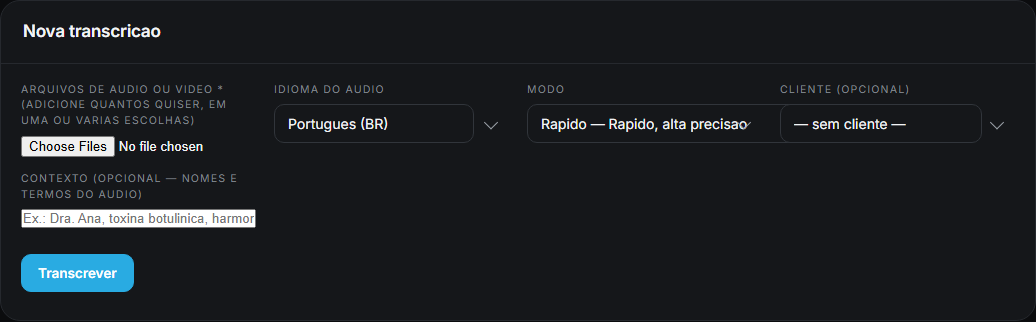
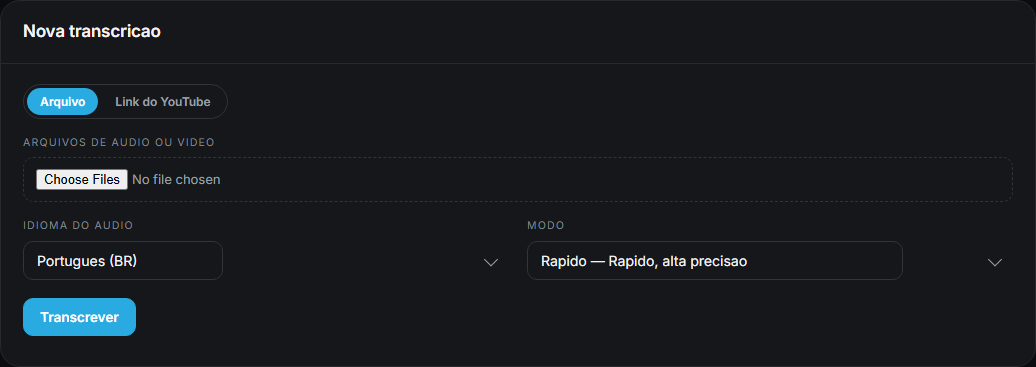
Transcritor: fonte por link do YouTube na UI
- Toggle Arquivo / Link do YouTube (.ct-periodo) no formulario; troca
  so a visibilidade, sem re-render (nao perde o que ja foi digitado)
- Textarea de links (um por linha) para enfileirar varios de uma vez
- Status "Baixando do YouTube" com barra de progresso no card
- Envio ramificado: arquivos (upload) ou links (POST /transcritor-youtube)
- Nova secao CSS #transcritor-root (tokens do tema); zero estilo inline
- Screenshots dos modos Arquivo e YouTube nos 2 temas

diff --git a/central/central.js b/central/central.js
@@ -4505,9 +4505,11 @@
   // selecao no meio do caminho (bug real). Tambem permite adicionar arquivos
   // em varias escolhas seguidas.
   var trArquivos = [];
+  var trFonte = "arquivo"; // "arquivo" | "youtube"
 
   var ROTULO_STATUS_TR = {
     aguardando: "Na fila",
+    baixando: "Baixando do YouTube",
     processando: "Transcrevendo",
     concluido: "Concluido",
     erro: "Erro",
@@ -4515,6 +4517,7 @@
   };
   var CLASSE_STATUS_TR = {
     aguardando: "",
+    baixando: "conectado",
     processando: "on",
     concluido: "conectado",
     erro: "off",
@@ -4535,7 +4538,7 @@
   }
 
   function trTemJobAtivo() {
-    return trJobs.some(function (j) { return j.status === "aguardando" || j.status === "processando"; });
+    return trJobs.some(function (j) { return j.status === "aguardando" || j.status === "processando" || j.status === "baixando"; });
   }
 
   function agendarPollingTr() {
@@ -4590,10 +4593,22 @@
       h += '<div class="ct-nota">' + esc((trInfo && trInfo.motor && trInfo.motor.detalhe) ||
            'Transcritor nao configurado. Rode "npm run transcritor:setup" na pasta do backend e reinicie o servidor.') + "</div>";
     } else {
-      h += '<div class="painel ct-secao"><div class="painel-topo"><h3>Nova transcricao</h3></div><div class="tr-corpo">' +
-        '<div class="ct-form-grid">' +
+      h += '<div class="painel ct-secao"><div class="painel-topo"><h3>Nova transcricao</h3></div>' +
+        '<div class="tr-corpo" id="tr-corpo" data-fonte="' + trFonte + '">' +
+        '<div class="ct-periodo tr-fonte-tabs">' +
+          '<button data-fonte="arquivo"' + (trFonte === "arquivo" ? ' class="ativo"' : "") + ">Arquivo</button>" +
+          '<button data-fonte="youtube"' + (trFonte === "youtube" ? ' class="ativo"' : "") + ">Link do YouTube</button>" +
+        "</div>" +
+        '<div class="tr-fonte tr-fonte-arquivo">' +
           '<div class="campo"><label>Arquivos de audio ou video</label>' +
             '<input type="file" id="tr-arquivo" multiple accept=".mp3,.wav,.m4a,.aac,.ogg,.flac,.mp4,.mov,.webm,.mkv,audio/*,video/*" /></div>' +
+          '<div class="tr-chips" id="tr-lista-arquivos"></div>' +
+        "</div>" +
+        '<div class="tr-fonte tr-fonte-youtube">' +
+          '<div class="campo"><label>Links do YouTube (um por linha)</label>' +
+            '<textarea id="tr-urls" placeholder="https://www.youtube.com/watch?v=...&#10;https://youtu.be/..."></textarea></div>' +
+        "</div>" +
+        '<div class="ct-form-grid">' +
           '<div class="campo"><label>Idioma do audio</label><div class="select-wrap"><select id="tr-idioma">' +
             (trInfo.idiomas || [{ id: "pt", rotulo: "Portugues (BR)" }]).map(function (l) {
               return '<option value="' + esc(l.id) + '"' + (l.id === "pt" ? " selected" : "") + ">" + esc(l.rotulo) + "</option>";
@@ -4605,7 +4620,6 @@
             }).join("") +
           "</select></div></div>" +
         "</div>" +
-        '<div class="tr-chips" id="tr-lista-arquivos"></div>' +
         '<div class="ct-form-acoes">' +
           '<button class="btn-toolbar" data-act="tr-enviar">Transcrever</button>' +
           '<span class="tr-status" id="tr-envio-status"></span>' +
@@ -4614,6 +4628,7 @@
       "</div></div>";
 
       h += '<div class="ct-nota">Transcricao local e integral: o Whisper roda nesta maquina e nenhum audio sai dela. ' +
+           "Por link do YouTube, o audio e baixado aqui e transcrito igual a um arquivo. " +
            "Modo Rapido ja tem alta precisao; Maxima precisao usa o modelo completo (mais lento, melhor em audio dificil). " +
            "Revise nomes proprios e termos tecnicos antes de usar em entregavel. Limite de " + limiteMb + " MB por arquivo.</div>";
     }
@@ -4669,6 +4684,19 @@
   function ligarFormTr(root) {
     var btnEnviar = root.querySelector('[data-act="tr-enviar"]');
     if (btnEnviar) btnEnviar.addEventListener("click", function () { enviarTranscricao(root); });
+    // Toggle Arquivo / Link do YouTube (troca so a visibilidade, sem re-render).
+    root.querySelectorAll(".tr-fonte-tabs [data-fonte]").forEach(function (b) {
+      b.addEventListener("click", function () {
+        trFonte = b.getAttribute("data-fonte");
+        var corpo = root.querySelector("#tr-corpo");
+        if (corpo) corpo.setAttribute("data-fonte", trFonte);
+        root.querySelectorAll(".tr-fonte-tabs [data-fonte]").forEach(function (x) {
+          x.classList.toggle("ativo", x.getAttribute("data-fonte") === trFonte);
+        });
+        var erroEl = root.querySelector("#tr-form-erro");
+        if (erroEl) erroEl.textContent = "";
+      });
+    });
     var inputArq = root.querySelector("#tr-arquivo");
     if (inputArq) {
       inputArq.addEventListener("change", function () {
@@ -4712,14 +4740,14 @@
     var meta = '<div class="tr-job-meta">' + esc(fmtData(job.criadoEm)) + dur + extra + "</div>";
 
     var corpo = "";
-    if (job.status === "processando") {
+    if (job.status === "processando" || job.status === "baixando") {
       corpo = '<div class="tr-progresso">' + progressoHtml(job.progresso || 0) + "</div>";
     } else if (job.status === "erro" && job.erro) {
       corpo = '<div class="tr-erro">' + esc(job.erro) + "</div>";
     }
 
     var acoes = "";
-    if (job.status === "processando" || job.status === "aguardando") {
+    if (job.status === "processando" || job.status === "aguardando" || job.status === "baixando") {
       acoes += '<button class="btn-sm" data-tr-cancelar="' + esc(job.id) + '">Cancelar</button>';
     }
     if (job.status === "erro" || job.status === "cancelado") {
@@ -4853,22 +4881,55 @@
   function enviarTranscricao(root) {
     var erroEl = root.querySelector("#tr-form-erro");
     var statusEl = root.querySelector("#tr-envio-status");
-    var arquivos = trArquivos.slice();
-    if (!arquivos.length) { erroEl.textContent = "Escolha um ou mais arquivos de audio ou video."; return; }
-    erroEl.textContent = "";
     var btn = root.querySelector('[data-act="tr-enviar"]');
-    if (btn) btn.disabled = true;
-
     var idiomaSel = root.querySelector("#tr-idioma");
     var idioma = idiomaSel ? idiomaSel.value : "pt";
     var modoSel = root.querySelector("#tr-modo");
     var modo = modoSel ? modoSel.value : "rapido";
+    var falhas = [];
+
+    function finalizar() {
+      if (btn) { btn.disabled = false; btn.textContent = "Transcrever"; }
+      if (statusEl) statusEl.textContent = "";
+      erroEl.textContent = falhas.length ? "Nao foi possivel enviar: " + falhas.join("; ") : "";
+      api("/api/paid-ads/transcritor").then(function (r) {
+        trInfo = r; trJobs = r.jobs || [];
+        renderJobsTr();
+        agendarPollingTr();
+      }).catch(function () {});
+    }
+
+    // ----- Fonte: links do YouTube -----
+    if (trFonte === "youtube") {
+      var urls = (root.querySelector("#tr-urls").value || "")
+        .split("\n").map(function (u) { return u.trim(); }).filter(Boolean);
+      if (!urls.length) { erroEl.textContent = "Cole um ou mais links do YouTube (um por linha)."; return; }
+      erroEl.textContent = "";
+      if (btn) btn.disabled = true;
+      var totalU = urls.length;
+      function enviarUrl(i) {
+        if (i >= totalU) return Promise.resolve();
+        if (statusEl) statusEl.textContent = "Enviando link " + (i + 1) + " de " + totalU + "...";
+        return api("/api/paid-ads/transcritor-youtube", { method: "POST", body: { url: urls[i], idioma: idioma, modo: modo } })
+          .catch(function (err) { falhas.push(urls[i] + " (" + (err.message || "erro") + ")"); })
+          .then(function () { return enviarUrl(i + 1); });
+      }
+      enviarUrl(0).then(function () {
+        if (!falhas.length) root.querySelector("#tr-urls").value = "";
+        finalizar();
+      });
+      return;
+    }
+
+    // ----- Fonte: arquivos -----
+    var arquivos = trArquivos.slice();
+    if (!arquivos.length) { erroEl.textContent = "Escolha um ou mais arquivos de audio ou video."; return; }
+    erroEl.textContent = "";
+    if (btn) btn.disabled = true;
     var chave = chaveApi();
     var headers = { "Content-Type": "application/octet-stream" };
     if (chave) headers["X-Api-Key"] = chave;
-
     var total = arquivos.length;
-    var falhas = [];
 
     // Envia um por vez (a fila do backend ja processa em sequencia; enviar
     // sequencial evita saturar a rede e deixa o status claro).
@@ -4889,25 +4950,10 @@
         .then(function () { return enviarUm(i + 1); });
     }
 
-    enviarUm(0)
-      .then(function () {
-        if (btn) { btn.disabled = false; btn.textContent = "Transcrever"; }
-        if (statusEl) statusEl.textContent = "";
-        trArquivos = [];
-        atualizarListaArquivosTr();
-        erroEl.textContent = falhas.length ? "Nao foi possivel enviar: " + falhas.join("; ") : "";
-        return api("/api/paid-ads/transcritor");
-      })
-      .then(function (r) {
-        trInfo = r; trJobs = r.jobs || [];
-        renderJobsTr();
-        agendarPollingTr();
-      })
-      .catch(function (err) {
-        if (btn) { btn.disabled = false; btn.textContent = "Transcrever"; }
-        if (statusEl) statusEl.textContent = "";
-        erroEl.textContent = "Falha no envio: " + err.message;
-      });
+    enviarUm(0).then(function () {
+      if (!falhas.length) { trArquivos = []; atualizarListaArquivosTr(); }
+      finalizar();
+    });
   }
 
   window.PulsarCentral = {

diff --git a/central/central.css b/central/central.css
@@ -618,6 +618,17 @@
 }
 #transcritor-root .tr-chip .rm:hover { color: var(--negative); }
 #transcritor-root .tr-status { font-size: 13px; color: var(--text-3); align-self: center; }
+#transcritor-root .tr-fonte-tabs { margin-bottom: 16px; }
+#transcritor-root .tr-fonte { margin-bottom: 16px; }
+#transcritor-root textarea {
+  width: 100%; min-height: 84px; resize: vertical;
+  background: var(--surface); color: var(--text);
+  border: 1px solid var(--border-strong); border-radius: var(--radius-sm);
+  padding: 11px 13px; font-size: 14px; font-family: inherit; line-height: 1.5; outline: none;
+}
+#transcritor-root textarea:focus { border-color: var(--accent); box-shadow: 0 0 0 3px var(--accent-soft); }
+#transcritor-root .tr-corpo[data-fonte="arquivo"] .tr-fonte-youtube { display: none; }
+#transcritor-root .tr-corpo[data-fonte="youtube"] .tr-fonte-arquivo { display: none; }
 
 #transcritor-root .tr-jobs { display: flex; flex-direction: column; gap: 10px; padding: 16px; }
 #transcritor-root .tr-job { border: 1px solid var(--border); border-radius: 14px; background: var(--surface); padding: 15px 16px; }
